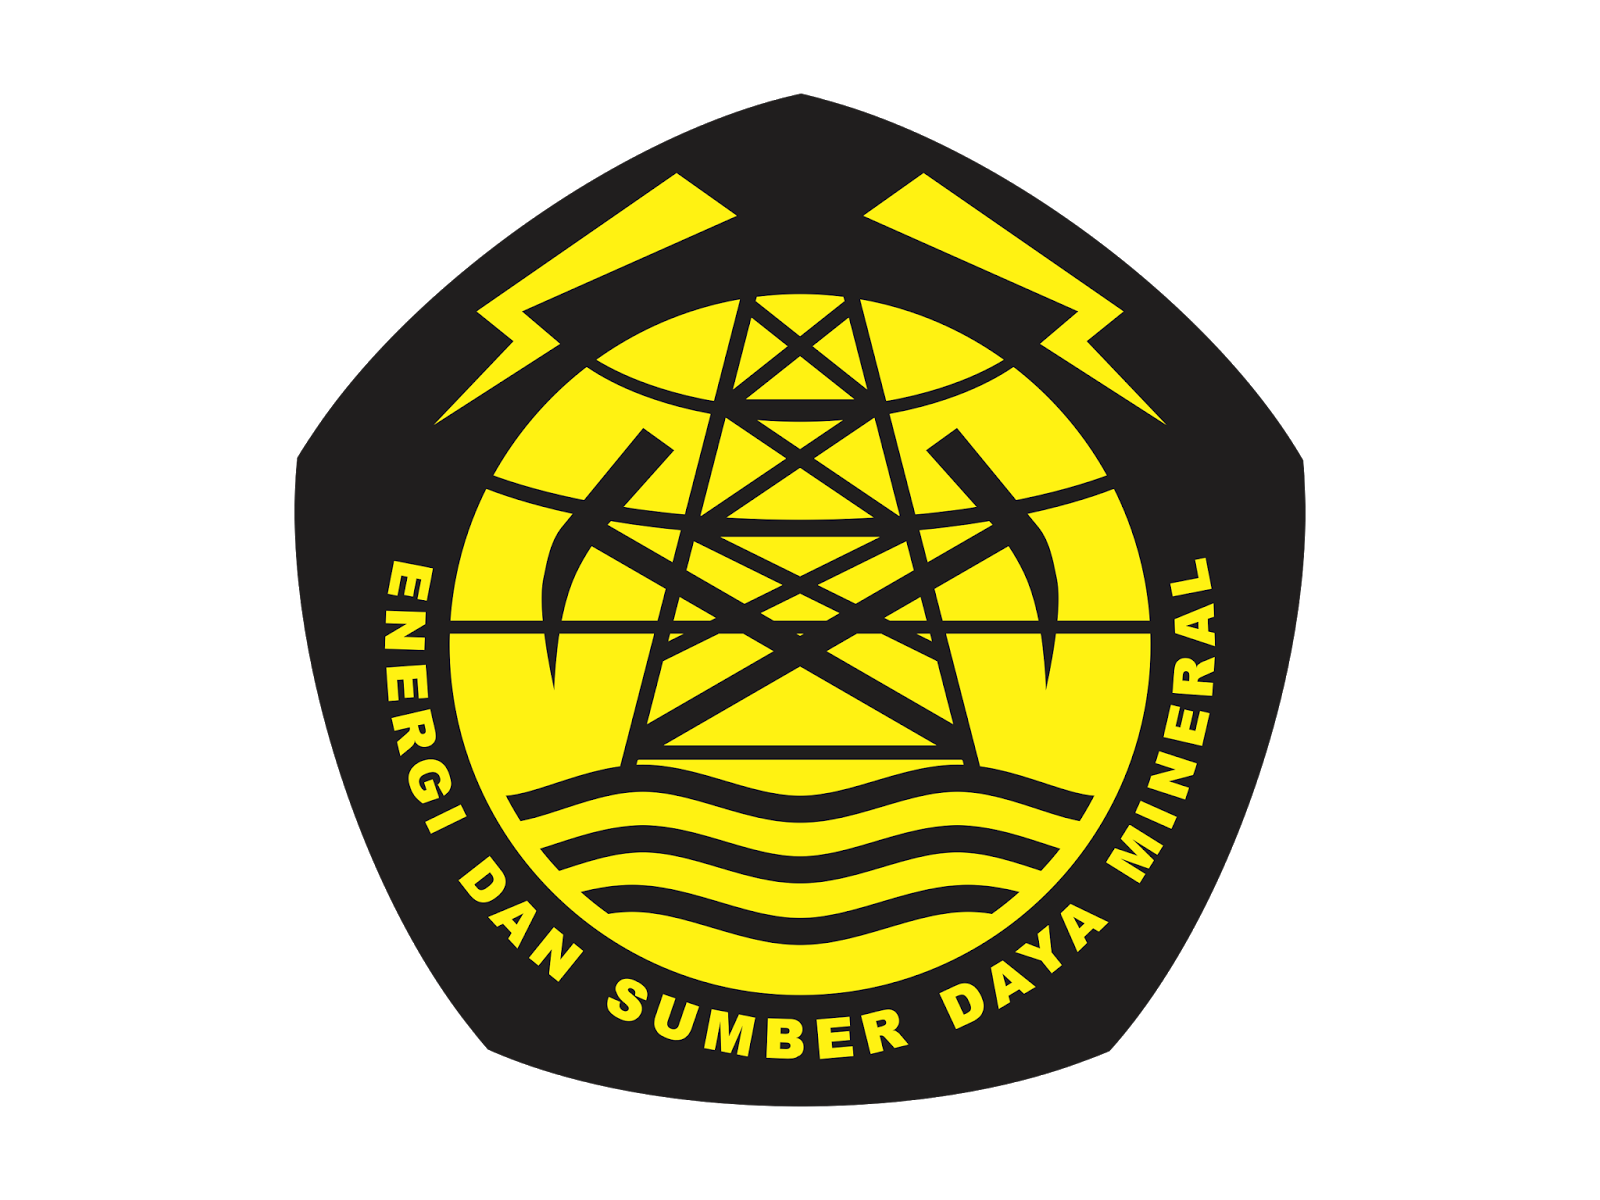
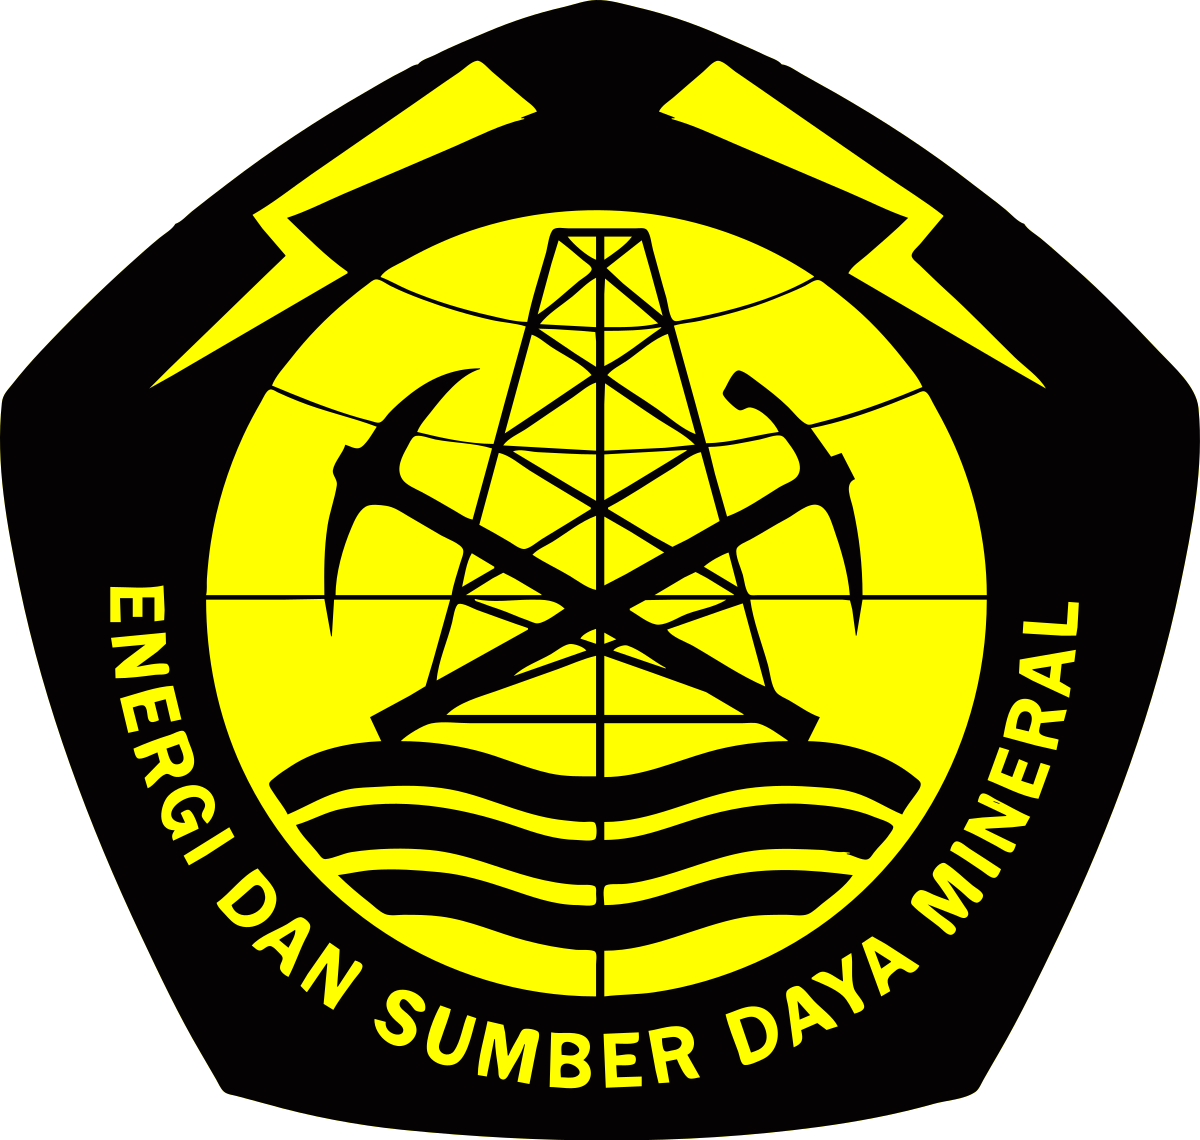
add design to home

diff --git a/src/public/css/pages/home.css b/src/public/css/pages/home.css
@@ -15,11 +15,11 @@ section#jumbotron p {
 	font-family: MulishRegular;
 }
 
-#lighting {
-	width: 300px;
-	height: 500px;
-	filter: blur(20px);
-	right: 10%;
+#ornamen_jumbo {
+	width: 600px;
+	height: 600px;
+	left: 0;
+	bottom: 0;
 }
 
 /* introduction */
@@ -45,19 +45,42 @@ section#jumbotron p {
 	}
 }
 
-/* sponsors */
-
-#sponsors {
-	min-height: 530px;
+#ornamen_intro {
+	width: 700px;
+	height: 700px;
+	right: 0;
+	bottom: 0;
+	opacity: 0.5;
 }
 
-#sponsors h2 {
+/* sponsors */
+
+#partners {
+	min-height: 730px;
+}
+
+#partners h2 {
 	font-size: 35px;
 	font-family: MulishSemiBold;
 }
 
-@media screen and (max-width: 992px) {
-	#sponsors {
-		min-height: 360px;
+#ornamen-slash {
+	width: 400px;
+	height: 400px;
+	left: 0;
+	top: 0;
+}
+
+#ornamen-tree {
+	width: 300px;
+	height: 300px;
+	right: 0;
+	bottom: 0;
+}
+
+@media screen and (max-width: 576px) {
+	#ornamen-slash,
+	#ornamen-tree {
+		opacity: 0.5;
 	}
 }

diff --git a/src/application/views/home.php b/src/application/views/home.php
@@ -23,15 +23,15 @@
     <!-- jumbotron -->
     <section id="jumbotron" class="py-5">
       <div class="container py-5 position-relative">
-        <img src="<?= base_url() ?>/public/img/lighting.png" class="position-absolute" id="lighting">
-        <img src="<?= base_url() ?>/public/img/Logo.png" alt="Futurest Logo" class="animate__animated animate__backInUp img-fluid d-block mx-auto" width="200">
+        <img src="<?= base_url() ?>/public/img/ornamen/ornam3.png" class="position-absolute" id="ornamen_jumbo">
+        <img src="<?= base_url() ?>/public/img/logo_keren.png" alt="Futurest Logo" class="animate__animated animate__backInUp img-fluid d-block mx-auto" width="180">
         <h1 class="animate__animated animate__backInUp text-center">Futurest 2022</h1>
         <p class="animate__animated animate__backInUp text-center w-75 mx-auto mb-4">
           <q>
             Generating Young Indonesian Leaders with Concrete and Feasible Actions for Climate Catastrophe Prevention Through Energy Transformation
           </q>
         </p>
-        <a href="#introduction" class="animate__animated animate__backInUp btn btn-lg btn-success d-block mx-auto d-flex justify-content-evenly align-items-center" style="width: 200px;">
+        <a href="#introduction" class="animate__animated animate__backInUp btn btn-primary d-block mx-auto d-flex justify-content-evenly align-items-center" style="width: 200px;">
           Learn more
           <i class="fas fa-chevron-down"></i>
         </a>
@@ -41,19 +41,21 @@
 
     <!-- introduction -->
     <section id="introduction" class="py-5">
-      <div class="container py-5">
+      <div class="container py-5 position-relative">
+        <img src="<?= base_url() ?>/public/img/star.png" class="position-absolute" id="ornamen_intro">
         <div class="row">
           <h2 class="mb-lg-5">Introduction</h2>
           <div class="row">
-            <div class="d-none d-lg-block col-lg-6">
-              <img src="<?= base_url() ?>/public/img/awarding-night.jpg" alt="Photos of Introduction " class="img-fluid" style="border-radius: 10px;">
+            <div class="d-none d-lg-block col-lg-5">
+              <img src="<?= base_url() ?>/public/img/circle_star.png" alt="Photos of Introduction " class="img-fluid" width="300">
             </div>
             <div class="col pt-lg-5">
               <p>
                 There are 7 events in futurest 2022. 2 of them have competitions, namely Renewable Energy Innovation Brainstorm and National Essay Competition. The other 2 are pre-event Grand Talkshow and Climate Changers Community. The remaining 3 are our main events, namely Renewable Energy 101, Final Talkshow, and Awarding Night.
               </p>
-              <a href="<?= base_url('events'); ?>" class="btn btn-lg btn-success">
+              <a href="<?= base_url('events'); ?>" class="btn btn-primary">
                 Learn More
+                <i class="fas fa-chevron-right"></i>
               </a>
             </div>
           </div>
@@ -62,21 +64,22 @@
     </section>
     <!-- end of introduction -->
 
-    <!-- sponsors -->
-    <section id="sponsors">
-      <div class="container">
+    <!-- partners -->
+    <section id="partners">
+      <div class="container position-relative">
+        <img src="<?= base_url() ?>/public/img/ornamen/ornam5.png" class="position-absolute" id="ornamen-slash">
+        <img src="<?= base_url() ?>/public/img/ornamen/ornam7.png" class="position-absolute" id="ornamen-tree">
         <div class="row">
-          <h2 class="text-center mb-5">Futurest 2022 Sponsors</h2>
-          <div class="row d-flex flex-wrap justify-content-center">
-            <div class="col-4 d-flex align-items-center justify-content-center">
-              <img src="<?= base_url() ?>/public/img/its.png" alt="Logo Sponsor" class="img-fluid" width="150">
-            </div>
-            <div class="col-4 d-flex align-items-center justify-content-center">
-              <img src="<?= base_url() ?>/public/img/esdm.png" alt="Logo Sponsor" class="img-fluid" width="200">
-            </div>
-            <div class="col-4 d-flex align-items-center justify-content-center">
-              <img src="<?= base_url() ?>/public/img/sre.png" alt="Logo Sponsor" class="img-fluid" width="200">
-            </div>
+          <h2 class="text-center mb-5">Futurest 2022 Support</h2>
+          <div class="d-flex flex-wrap justify-content-center mb-5">
+            <img src="<?= base_url() ?>/public/img/its.png" alt="Logo Sponsor" class="img-fluid m-4" width="150" height="150">
+            <img src="<?= base_url() ?>/public/img/esdm.png" alt="Logo Sponsor" class="img-fluid m-4" width="150" height="150">
+            <img src="<?= base_url() ?>/public/img/sre_nasional.png" alt="Logo Sponsor" class="img-fluid m-4" width="150" height="150">
+          </div>
+          <h2 class="text-center my-5">Futurest 2022 Sponsors</h2>
+          <div class="d-flex flex-wrap justify-content-center">
+            <img src="<?= base_url() ?>/public/img/pt_quarto.jpg" alt="Logo Sponsor" class="img-fluid m-4" width="200" height="150">
+            <img src="<?= base_url() ?>/public/img/pt_pp.jpg" alt="Logo Sponsor" class="img-fluid m-4" width="150" height="150">
           </div>
         </div>
       </div>

diff --git a/src/application/config/database.php b/src/application/config/database.php
@@ -75,14 +75,14 @@ $query_builder = TRUE;
 
 $db['default'] = array(
   'dsn'  => '',
-  'hostname' => '103.163.138.3',
-  'username' => 'futurest_user',
-  'password' => 'Sur4b4y4k0t4',
-  'database' => 'futurest_database',
-  /* 'hostname' => 'localhost',
+  // 'hostname' => '103.163.138.3',
+  // 'username' => 'futurest_user',
+  // 'password' => 'Sur4b4y4k0t4',
+  // 'database' => 'futurest_database',
+  'hostname' => 'localhost',
   'username' => 'root',
   'password' => '',
-  'database' => 'futurest2022', */
+  'database' => 'futurest2022',
   'dbdriver' => 'mysqli',
   'dbprefix' => '',
   'pconnect' => FALSE,

diff --git a/src/application/config/config.php b/src/application/config/config.php
@@ -24,8 +24,8 @@ defined('BASEPATH') or exit('No direct script access allowed');
 |
 */
 
-$config['base_url'] = 'https://futurest-its.com/';
-//$config['base_url'] = 'http://localhost/FuturestSREITS2022/src/';
+// $config['base_url'] = 'https://futurest-its.com/';
+$config['base_url'] = 'http://localhost:8080/FuturestSREITS2022/src/';
 
 /*
 |--------------------------------------------------------------------------
